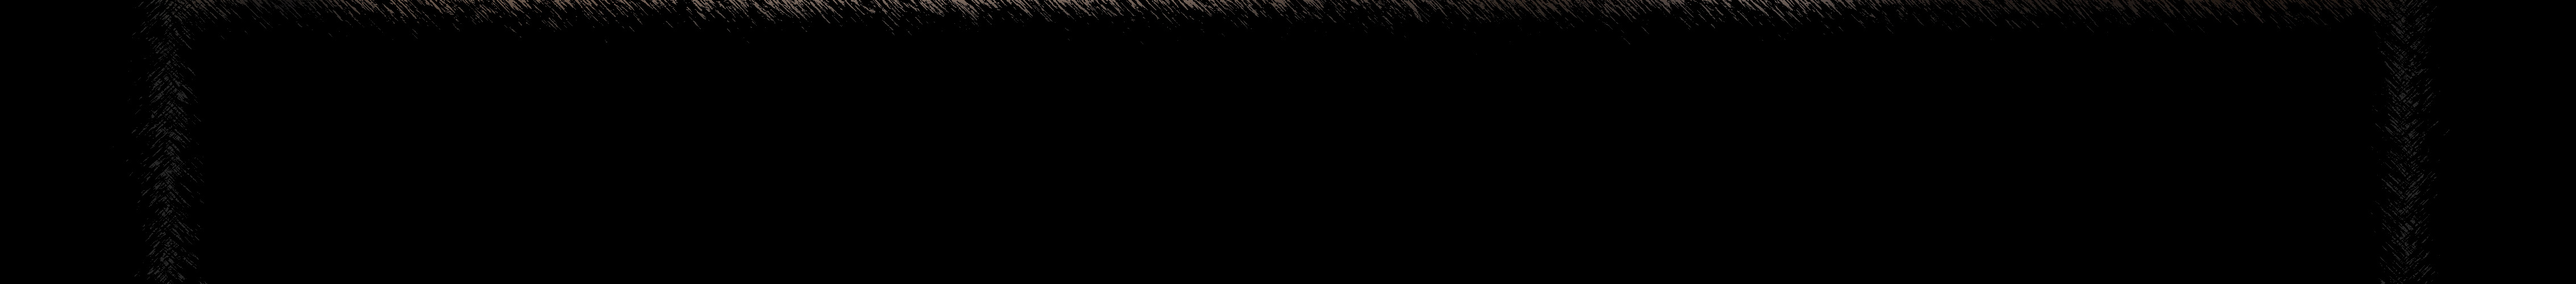
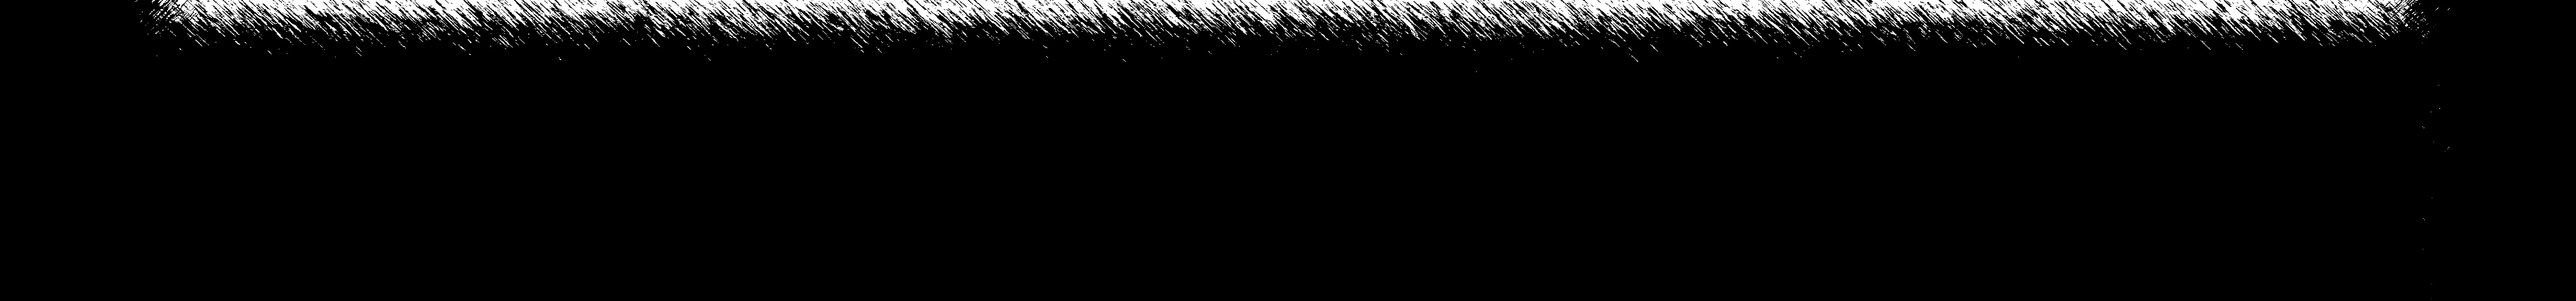
Добавлены элементы главное страницы и футер. Изменена шапка сайта

diff --git a/src/Components/CarouselBox.js b/src/Components/CarouselBox.js
@@ -1,28 +1,33 @@
-import React, {useState} from "react";
-import 'bootstrap/dist/css/bootstrap.css'; 
-import Carousel from 'react-bootstrap/Carousel';
+import React, { useState } from "react";
+import Carousel from "react-bootstrap/Carousel";
 import slide_1 from "../images/slide/slide_1.png";
 import slide_2 from "../images/slide/slide_2.png";
+import slide_3 from "../images/slide/slide_3.png";
+import recordBtn from "../images/gif/recordBtn.gif";
 
 const CarouselBox = () => {
-    return (
-        <Carousel className="carousel">
-            <Carousel.Item>
-                <img
-                className="carousel-img"
-                src={slide_1}
-                alt="slide_1"
-                 />
-            </Carousel.Item>
-            <Carousel.Item>
-                <img
-                className="carousel-img"
-                src={slide_2}
-                alt="slide_2"
-                 />
-            </Carousel.Item>
-        </Carousel>
-    )
- }
+  return (
+    <Carousel className="carousel">
+      <Carousel.Item>
+        <img className="carousel-img" src={slide_1} alt="slide_1" />
+        <button className="carousel-btn">
+          <img src={recordBtn} />
+        </button>
+      </Carousel.Item>
+      <Carousel.Item>
+        <img className="carousel-img" src={slide_2} alt="slide_2" />
+        <button className="carousel-btn">
+          <img src={recordBtn} />
+        </button>
+      </Carousel.Item>
+      <Carousel.Item>
+        <img className="carousel-img" src={slide_3} alt="slide_3" />
+        <button className="carousel-btn">
+          <img src={recordBtn} />
+        </button>
+      </Carousel.Item>
+    </Carousel>
+  );
+};
 
- export default CarouselBox
+export default CarouselBox;

diff --git a/public/index.html b/public/index.html
@@ -10,34 +10,13 @@
       content="Web site created using create-react-app"
     />
     <link rel="apple-touch-icon" href="%PUBLIC_URL%/logo192.png" />
-    <!--
-      manifest.json provides metadata used when your web app is installed on a
-      user's mobile device or desktop. See https://developers.google.com/web/fundamentals/web-app-manifest/
-    -->
     <link rel="manifest" href="%PUBLIC_URL%/manifest.json" />
-    <!--
-      Notice the use of %PUBLIC_URL% in the tags above.
-      It will be replaced with the URL of the `public` folder during the build.
-      Only files inside the `public` folder can be referenced from the HTML.
-
-      Unlike "/favicon.ico" or "favicon.ico", "%PUBLIC_URL%/favicon.ico" will
-      work correctly both with client-side routing and a non-root public URL.
-      Learn how to configure a non-root public URL by running `npm run build`.
-    -->
+ 
     <title>React App</title>
   </head>
   <body>
     <noscript>You need to enable JavaScript to run this app.</noscript>
     <div id="root"></div>
-    <!--
-      This HTML file is a template.
-      If you open it directly in the browser, you will see an empty page.
-
-      You can add webfonts, meta tags, or analytics to this file.
-      The build step will place the bundled scripts into the <body> tag.
-
-      To begin the development, run `npm start` or `yarn start`.
-      To create a production bundle, use `npm run build` or `yarn build`.
-    -->
+ 
   </body>
 </html>

diff --git a/src/Pages/Home.css b/src/Pages/Home.css
@@ -1,26 +1,62 @@
 .content {
-    position: relative;
-    height: 100vh;
-    width: 100%; 
-    background-image: url("/src/images/font.jpg"); 
-    background-size: cover; 
-    background-position: center; 
-    background-repeat: no-repeat; 
+  position: relative;
 }
 
 .content .carousel {
-    width: 70%;
-    margin: 0 auto;
+  width: 70%;
+  margin: 0 auto;
 }
 
 .content .carousel-img {
-    display: block;
-    margin-left: auto;
-    max-width: 100%;
-    height: 100%;
+  display: block;
+  margin-left: auto;
+  max-width: 100%;
+  height: 100%;
+}
+
+.carousel {
+  position: relative;
+  padding-bottom: 4%;
 }
 
 .carousel-control-prev,
 .carousel-control-next {
-    margin: 0 -15%;
+  margin: 0 -15%;
+}
+
+.carousel-indicators::before {
+  content: "1";
+  margin-right: 10px;
+}
+
+.carousel-indicators::after {
+  content: "3";
+  margin-left: 10px;
+}
+
+.carousel-indicators {
+  position: absolute;
+  padding: 0;
+  bottom: 10%;
+  left: -79%;
+  color: white;
+}
+
+.carousel-indicators button {
+  background-color: yellow !important;
+}
+
+.carousel-btn {
+  position: absolute;
+  background: none;
+  cursor: pointer;
+  padding: 0;
+  top: 80%;
+  left: 5.7%;
+  z-index: 1;
+  border: none;
+}
+
+.carousel-btn img {
+  width: 15vh;
 }

diff --git a/src/Pages/Home.js b/src/Pages/Home.js
@@ -1,16 +1,17 @@
 import React from "react";
 import "./Home.css";
-import CarouselBox from '../Components/CarouselBox';
+import CarouselBox from "../Components/CarouselBox";
 
-function Home () {
-    const content = 
+function Home() {
+  const content = (
     <div className="content">
-         <div className="carousel-container">
+      <div className="carousel-container">
         <CarouselBox />
-        </div>
+      </div>
     </div>
-        
-    return <div>{content}</div>
+  );
+
+  return <div>{content}</div>;
 }
 
 export default Home;

diff --git a/src/index.css b/src/index.css
@@ -1,8 +1,13 @@
 body {
+  position: relative;
   margin: 0;
   font-family: -apple-system, BlinkMacSystemFont, 'Segoe UI', 'Roboto', 'Oxygen',
     'Ubuntu', 'Cantarell', 'Fira Sans', 'Droid Sans', 'Helvetica Neue',
     sans-serif;
+  background-image: url("/src/images/font.jpg");
+  background-size: cover;
+  background-position: center;
+  background-repeat: no-repeat;
   -webkit-font-smoothing: antialiased;
   -moz-osx-font-smoothing: grayscale;
 }

diff --git a/src/App.js b/src/App.js
@@ -1,12 +1,15 @@
 import './App.css';
+import 'bootstrap/dist/css/bootstrap.css'; 
 import Header from './Components/Header';
 import Home from './Pages/Home';
+import Footer from './Components/Footer';
 
 function App() {
   return (
    <div>
-    <Header/>
-    <Home/>
+    <Header />
+    <Home />
+    <Footer />
    </div>
   );
 }

diff --git a/src/Components/Header.css b/src/Components/Header.css
@@ -1,13 +1,3 @@
-.header-container {
-  background-image: url("../images/header.jpg");
-  background-size: cover;
-  background-repeat: no-repeat;
-  width: 100%;
-  height: 100%;
-  border-bottom: 1px solid rgba(255, 255, 255, 0.234);
-  z-index: -1;
-}
-
 .header-top {
   display: flex;
   align-items: center;

diff --git a/src/Components/Header.js b/src/Components/Header.js
@@ -6,7 +6,7 @@ import phone from "../images/icons/phone.png";
 
 const Header = () => {
   return (
-    <div className="header-container">
+    <div className="header">
       <div className="container">
         <div className="header-top">
           <a href="#" className="logo-link">

diff --git a/src/Components/Footer.css b/src/Components/Footer.css
@@ -1,0 +1,10 @@
+.footer {
+    position: absolute;
+    bottom: 0;
+    background-image: url('../images/footer.png');
+    background-size: cover;
+    background-repeat: no-repeat;
+    width: 100%;
+    height: 9%;
+    z-index: 2;
+}

diff --git a/src/Components/Footer.js b/src/Components/Footer.js
@@ -1,0 +1,11 @@
+import React from "react";
+import './Footer.css';
+
+const Footer = () => {
+    return (
+        <div className="footer">
+        </div>
+    );
+}
+
+export default Footer;
